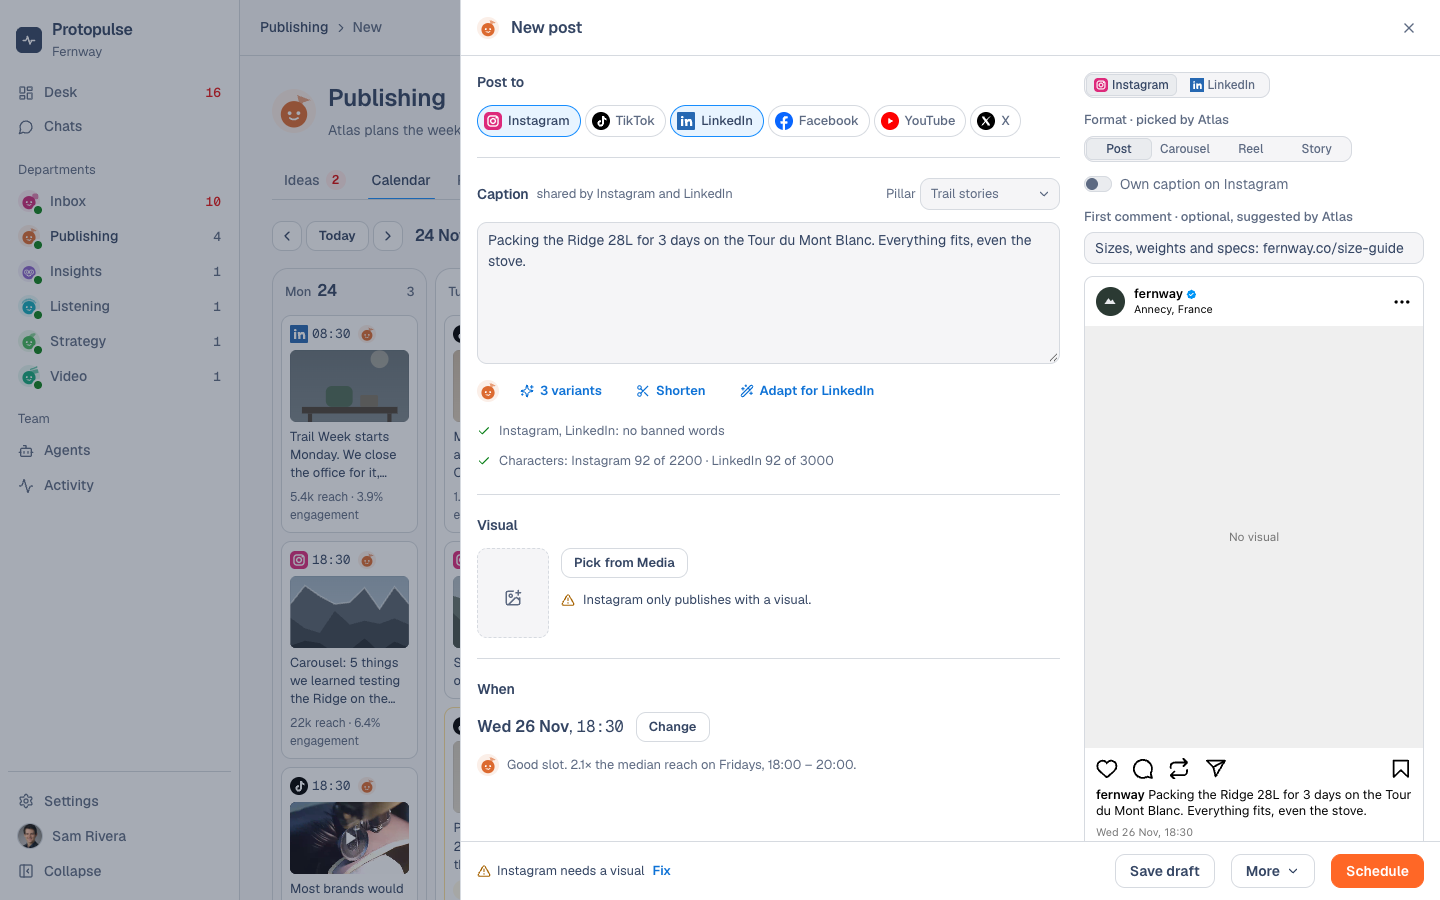
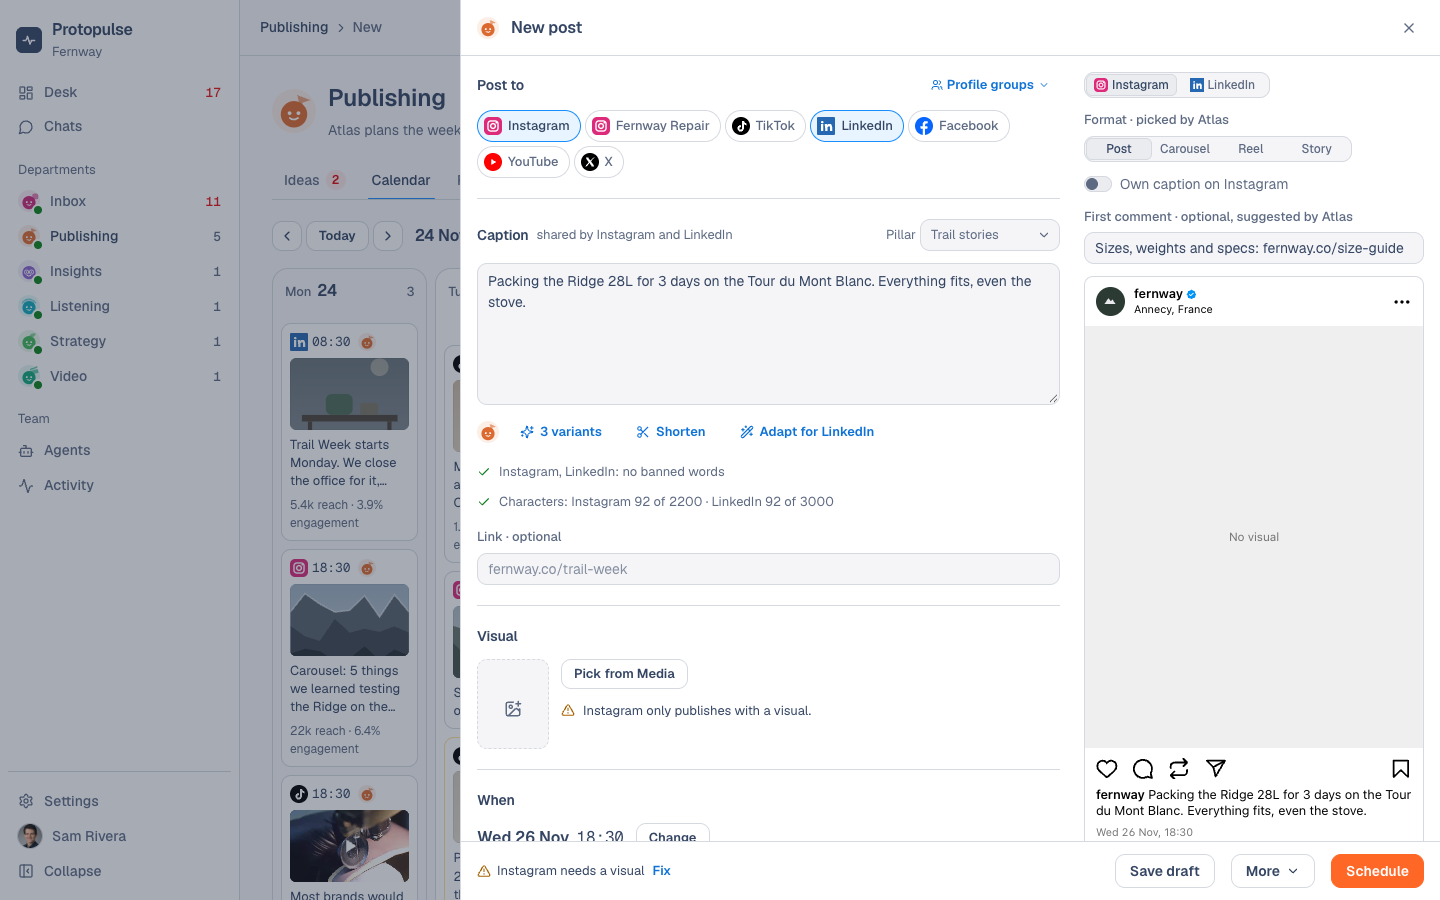
Composer: after captures with profiles and links, plan updated

diff --git a/design-plans/composer-rework.md b/design-plans/composer-rework.md
@@ -22,13 +22,16 @@ Desk cards). Captures: `design-plans/previews/composer-before-*.png` and `compos
 
 Left column, top to bottom, sections separated by grey-20 rules:
 
-1. **Post to**: one row of account toggles. In edit mode, the post's network as text ("each network's post is edited
-   on its own"), no disabled chips.
+1. **Post to**: the profile toggles (main accounts plus Fernway Repair, from `accounts.ts`), Profile groups as a
+   tertiary menu beside the title, and Atlas's routing tip ("Repair content on Instagram goes to Fernway Repair" ·
+   Use Fernway Repair) right under them. In edit mode, the post's profile as text, no disabled chips.
 2. **Caption**: the field, the pillar on the same line (it shapes Atlas's variants and first comment), then Atlas's
    copilot right under the text (3 variants, Shorten, Adapt for LinkedIn, as tertiary actions), then the live
    Playbook check: each problem with a one-click fix (Remove the banned words, Keep one emoji, Remove emojis,
    Shorten), passing rules ticked, lengths per network on one line. Variants are Choice rows ("Use"), "Keep mine"
-   closes them. Every Atlas edit and every fix shows an Undo line.
+   closes them. Every Atlas edit and every fix shows an Undo line. The optional **Link** follows, with Atlas's
+   tracking said as information (UTM convention, then per profile: short link, plain link on X, first comment on
+   Instagram).
 3. **Visual**: larger thumbnail, Pick from Media (the library, plus **Upload**, which the composer lacked), Remove, and
    which networks need a visual.
 4. **When**: the slot as a sentence (`Thu 27 Nov, 18:30`, time in mono), **Change** opens the date-time field in a
@@ -56,8 +59,13 @@ Editing a post that isn't simply scheduled shows its status pill and note or fai
   under When (cap, past time), summarized in the footer.
 - Copilot box under the preview → under the caption.
 - Native date and time inputs → slot sentence + Change (one `datetime-local` in a popover, like Ideas and Bulk).
-- Check marks inside the account chips → the selected state matches `Filters` (blue border and wash), so six fit.
+- Check marks inside the account chips → the selected state matches `Filters` (blue border and wash). Six networks
+  fit on one row; with Fernway Repair (seven profiles, merged from main during this work) the row wraps once at 1440.
+- Atlas's routing and link-tracking notes lose their grey well (§10 Information: no background, no border).
 - "Ask Claire" and "Add to plan" as footer buttons → More menu.
+
+Merged from main while this was in review: profiles, profile groups, repair routing and tracked links (Atlas
+contracts). They are carried over into the new layout, not redesigned.
 
 Shared code touched: `readImage` moved from `Page.tsx` to `visuals.ts` so Media and the composer upload the same way.
 No change to the store, the reducer, the engine, mock data or slice actions.
@@ -74,6 +82,7 @@ No change to the store, the reducer, the engine, mock data or slice actions.
 
 ## Still open
 
+- Seven profiles wrap to two rows at 1440; a compact chip (icon + short name) or grouping by network would fix it.
 - Day shortcuts in When (Atlas's best day this week, tomorrow) would spare the native picker for the common case.
 - "Ask Claire" sits in More; if Claire's approval becomes frequent, it may deserve the secondary slot instead of
   Save draft.
